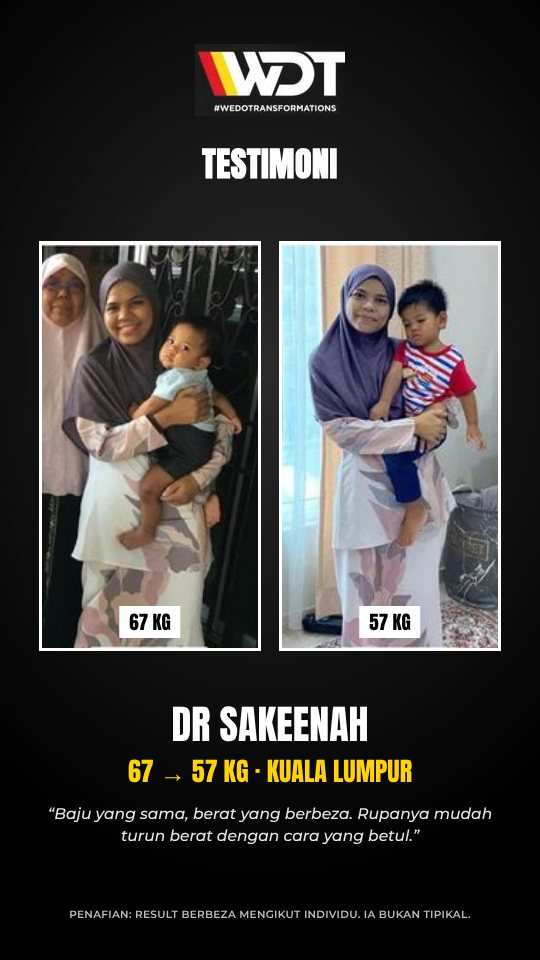
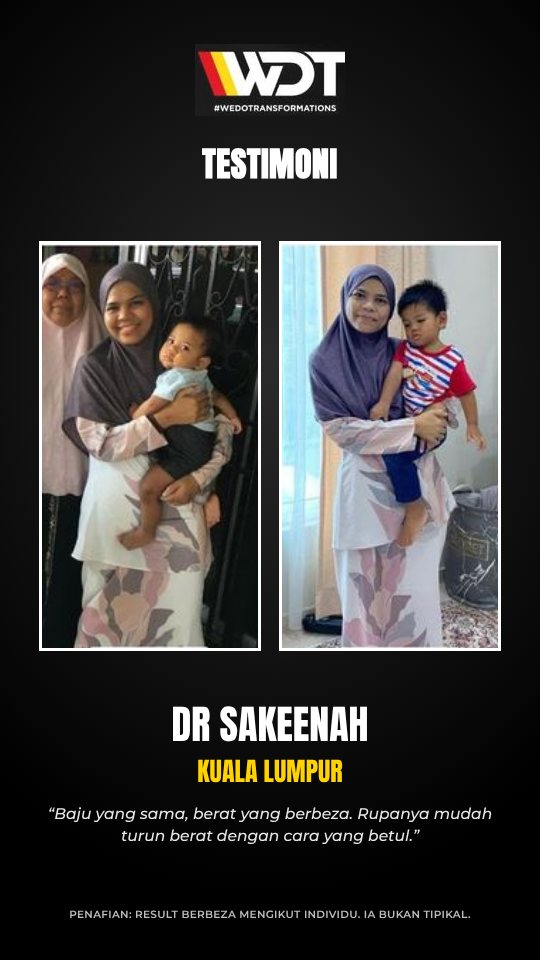
Grill decisions live: 1-hour reply, 1-month no-contract terms, quiz + calculator folded into the kit, Dr Sakeenah without kg, Pelan 14 Hari RM79 (Kimi: go)
Claude-Session: https://claude.ai/code/session_01Y5YPwBbarWogr6AVygy2j8

diff --git a/index.html b/index.html
@@ -107,6 +107,8 @@
   .kit-note{margin-top:14px;font-weight:700;font-size:15px}
   .kit-note a{color:var(--ink)}
   #hari7[hidden]{display:none}
+  .fold:not(.open){display:none}
+  .oterms{font-size:13px;line-height:1.45;margin:6px 0 0;opacity:.85}
   #hari7,#kalori{scroll-margin-top:60px}
   #zara,#kit,#pilihan{scroll-margin-top:72px}
   .h7-out{background:var(--black);color:#fff;border-radius:10px;padding:14px 16px;font-weight:600}
@@ -549,20 +551,8 @@
     <div class="container"><div class="hero-ctas"><a class="big assess" target="_blank" rel="noopener"><span data-t="assessBtn"></span></a></div></div>
   </section>
 
-  <!-- QUIZ INTRO: pin. Three facts build up, then the quiz card -->
-  <section class="sx sx-qintro" data-sc-act="pin" data-sc-span="1.5">
-    <div data-sc-stage>
-      <div class="sx-plane sx-qbars" aria-hidden="true"><i></i><i></i></div>
-      <div class="sx-c">
-        <p class="sx-big" data-sc-cue="0 1 0 0" data-t="sxQ1"></p>
-        <p class="sx-big sx-big--y" data-sc-cue="0.22 1 0.15 0" data-t="sxQ2"></p>
-        <p class="sx-line" data-sc-cue="0.44 1 0.15 0" data-t="sxQ3"></p>
-      </div>
-    </div>
-  </section>
-
   <!-- QUIZ -->
-  <section class="quiz-zone" id="quiz-zone" data-sc-act="flow">
+  <section class="quiz-zone fold" id="quiz-zone" data-sc-act="flow">
     <svg class="sx-plane sx-qmark" viewBox="0 0 60 100" aria-hidden="true" data-sc-parallax="-2.4"><text x="2" y="92">?</text></svg>
     <div class="container">
       <div class="wrap">
@@ -638,7 +628,7 @@
   </section>
 
   <!-- MEAL CALCULATOR: daily calorie range, protein and the free 8-page meal plan PDF (Kit Mula 7 Hari) -->
-  <section class="block" id="kalori" data-sc-act="flow">
+  <section class="block fold" id="kalori" data-sc-act="flow">
     <div class="container" data-sc-in data-sc-stagger="90">
       <div class="eyebrow" data-t="calEyebrow"></div>
       <h2 class="title display" data-t="calH"></h2>
@@ -683,6 +673,7 @@
         <p class="sx-big"><span>RM</span>259</p>
         <p class="sx-line" data-sc-cue="0.28 1 0.15 0" data-t="sxP2"></p>
         <p class="sx-line" data-sc-cue="0.46 1 0.15 0" style="font-weight:500;color:#C9C6C0" data-t="sxP3"></p>
+        <p class="sx-line" data-sc-cue="0.6 1 0.15 0" style="font-weight:600;color:#FFD200;font-size:clamp(15px,2.2vw,20px)" data-t="sxP4"></p>
       </div>
     </div>
   </section>
@@ -701,6 +692,7 @@
           <ul class="checks" data-t="o1List"></ul>
           <div class="olabel" data-t="investLabel"></div>
           <div class="oprice" data-t="o1Price"></div>
+          <p class="oterms" data-t="terms"></p>
           <a class="btn assess" target="_blank" rel="noopener" data-t="o1Btn"></a>
         </article>
         <article class="offer ladies" id="ladies">
@@ -813,7 +805,7 @@ const SRC = ((new URLSearchParams(location.search).get("src") || "").toLowerCase
 const WDT_RESULTS = [[9,"Mihalcea Cornelia"],[10,"Rachel Romero"],[16,"Everline Hoffmann"],[2,"Hernan Brito"]];
 
 const TESTIMONIALS = [
-  { id:"sakeenah", name:"Dr Sakeenah, Kuala Lumpur", result:"67 → 57 kg", photo:"img/t-sakeenah.jpg",
+  { id:"sakeenah", name:"Dr Sakeenah, Kuala Lumpur", result:"", photo:"img/t-sakeenah.jpg",
     quote:{ms:"Baju yang sama, berat yang berbeza. Rupanya mudah turun berat dengan cara yang betul.",en:"Same outfit, different weight. It turns out losing weight is easy when you do it the right way."} },
   { id:"eka", name:"Eka, Johor Bahru", result:"75 → 54 kg", photo:"img/t-eka.jpg",
     quote:{ms:"Saya turun 21 kg sambil makan nasi, brownies dan makan sedap.",en:"I lost 21 kg while still eating rice, brownies and good food."} },
@@ -909,7 +901,7 @@ const TXT = {
     investShort:"Programs start from RM259 a month, supplements included. Your coach will help you pick an option that fits your budget.",
     heroBtn:"Start the free quiz →",
     priceLine:"Programs start from RM259 a month, supplements included.",
-    assessNote:"Fill in a free form on the WeDoTransformations website (our team), then Coach Kimi, or Coach Zara for women, contacts you personally to explain your result. No pressure.",
+    assessNote:"Fill in a free form on the WeDoTransformations website (our team), then Coach Kimi, or Coach Zara for women, contacts you within 1 hour (8am to 10pm) to explain your result. No pressure.",
     assessBtn:"Free Online Body Assessment →", heroZara:"Prefer a female coach? Meet Coach Zara ↓", heroQuizLink:"or try the free 7-Day Starter Kit (quiz + meal plan) ↓",
     waShort:"💬 WhatsApp us",
     stat1:"realistic first goal", stat2:"free quiz", stat3:"coaches, male and female",
@@ -939,20 +931,20 @@ const TXT = {
     sx3:"But I'd become skinny fat: thin on the outside, low on muscle, still carrying fat. Dieting harder wasn't the answer.", sx4:"I ate enough protein and lifted weights. Now I'm 70 kg at 19% body fat.",
     sxProofP:"The first 6 results are from Malaysia. The last 4 are 21-Day Challenge results from WeDoTransformations coaches overseas.",
     sxQ1:"10 questions.", sxQ2:"2 minutes.", sxQ3:"Find out what's holding your results back.",
-    sxP1:"Programs start from", sxP2:"a month, supplements included.", sxP3:"Your coach will help you pick an option that fits your budget.",
+    sxP1:"Programs start from", sxP2:"a month, supplements included.", sxP3:"Your coach will help you pick an option that fits your budget.", sxP4:"One payment for 1 month. No contract, no auto-renew. Rejoin later for 25-50% off (T&amp;C apply).", terms:"One payment for 1 month. No contract, no auto-renew. Rejoin later for 25-50% off (T&amp;C apply).",
     testiEyebrow:"Real results",
     testiH:"Our team's clients",
     testiNote:"Results from clients of our coaching team. Results are not typical and vary from person to person.",
     webFoot:"Free online body assessment", incomeFoot:"Side income opportunity",
     faqH:"Questions people ask",
     faq:[
-      ["What is the free online body assessment?","You fill in a form online on the WeDoTransformations page (it opens in a new tab). Then Coach Kimi, or Coach Zara for women, contacts you personally to explain where your body is now and what to fix first. It's free, and there's no pressure to join. Programs start from RM259 a month, supplements included."],
+      ["What is the free online body assessment?","You fill in a form online on the WeDoTransformations page (it opens in a new tab). Then Coach Kimi, or Coach Zara for women, contacts you within 1 hour (8am to 10pm) to explain where your body is now and what to fix first. It's free, and there's no pressure to join. Programs start from RM259 a month, supplements included."],
       ["Why start with 3 to 5 kg?","Because it's realistic. A small first goal is easier to reach while working full time, and once you see it happen it's much easier to keep going."],
       ["How long does it take to lose 3 to 5 kg?","It depends on your starting point and your routine. A healthy pace is usually around 0.5 to 1 kg a week. We'll give you an honest estimate on the call. Results vary."],
       ["I'm really busy. Do I need the gym?","No. The workouts are about 20 minutes and can be done at home."],
       ["Do I have to stop eating rice or eating out?","No. The plans are built around normal Malaysian food and eating out. You'll learn what to pick, not what to give up forever."],
       ["Can I have a female coach?","Yes. Coach Zara coaches women. Pick \"Female coach\" on your result page."],
-      ["How much does coaching cost?","Packages start from RM259 for one month. That includes supplements, 1-to-1 coaching, group coaching, accountability (a coach who keeps you on track), and a meal plan and workout plan built around your lifestyle. There are longer, fuller packages too. On WhatsApp, your coach will help you pick the one that fits your goal and budget."],
+      ["How much does coaching cost?","Packages start from RM259 for one month. That includes supplements, 1-to-1 coaching, group coaching, accountability (a coach who keeps you on track), and a meal plan and workout plan built around your lifestyle. It's one payment for one month: no contract, no auto-renew, no membership. If you rejoin later you get 25-50% off (T&C apply). There are longer, fuller packages too. On WhatsApp, your coach will help you pick the one that fits your goal and budget."],
       ["I want to gain weight. Can you help?","Yes. Take the <a href='#quiz-zone'>2-minute quiz</a> and pick “Gain weight and look fuller” in question 1 to see what's stopping your weight from going up. Or in the <a href='#kalori'>calculator</a>, pick “Gain weight” for a free meal plan to gain weight without gaining excess fat (1,500-3,000 kcal). Our weight gain coaching uses normal food and strength training. Programs start from RM259 a month, supplements included. For ages 18 and up. Losing weight without trying? See a doctor first."],
       ["Are supplements part of the program?","Yes. Every online coaching package includes supplements at no extra cost. The RM259 package includes a nutrition shake, and bigger packages add more products. Your plan is still built on normal Malaysian food. Pregnant, breastfeeding, on medication or have a health condition? Tell your coach and check with your doctor first. Want to know what's in each package? Ask a coach on WhatsApp."]
     ],
@@ -1094,7 +1086,7 @@ const TXT = {
     investShort:"Program bermula dari RM259 sebulan, termasuk supplement. Coach akan bantu pilih pakej ikut bajet anda.",
     heroBtn:"Mula kuiz percuma →",
     priceLine:"Program bermula dari RM259 sebulan, termasuk supplement.",
-    assessNote:"Isi borang percuma di website WeDoTransformations (team kami), lepas tu Coach Kimi, atau Coach Zara untuk wanita, akan hubungi anda untuk terangkan result. Tiada paksaan.",
+    assessNote:"Isi borang percuma di website WeDoTransformations (team kami), lepas tu Coach Kimi, atau Coach Zara untuk wanita, akan hubungi anda dalam masa 1 jam (8 pagi hingga 10 malam) untuk terangkan result. Tiada paksaan.",
     assessBtn:"Online Body Assessment PERCUMA →", heroZara:"Lebih selesa dengan coach perempuan? Kenali Coach Zara ↓", heroQuizLink:"atau cuba Kit Mula 7 Hari percuma (kuiz + meal plan) ↓",
     waShort:"💬 WhatsApp kami",
     stat1:"matlamat pertama yang realistik", stat2:"kuiz percuma", stat3:"coach, lelaki dan perempuan",
@@ -1124,20 +1116,20 @@ const TXT = {
     sx3:"Tapi saya jadi skinny fat: nampak kurus, tapi otot sikit dan lemak masih tinggi. Diet lebih ketat bukan jawapannya.", sx4:"Saya makan protein cukup dan angkat beban. Sekarang 70 kg, lemak badan (body fat) 19%.",
     sxProofP:"6 result pertama dari Malaysia. 4 terakhir ialah result Cabaran 21 Hari dari coach WeDoTransformations di luar negara.",
     sxQ1:"10 soalan.", sxQ2:"2 minit.", sxQ3:"Tahu apa yang menghalang result anda.",
-    sxP1:"Program bermula dari", sxP2:"sebulan, termasuk supplement.", sxP3:"Coach akan bantu pilih pakej ikut bajet anda.",
+    sxP1:"Program bermula dari", sxP2:"sebulan, termasuk supplement.", sxP3:"Coach akan bantu pilih pakej ikut bajet anda.", sxP4:"Bayar sekali untuk 1 bulan. Tiada kontrak, tiada auto-renew. Sambung semula dapat diskaun 25-50% (tertakluk syarat).", terms:"Bayar sekali untuk 1 bulan. Tiada kontrak, tiada auto-renew. Sambung semula dapat diskaun 25-50% (tertakluk syarat).",
     testiEyebrow:"Result sebenar",
     testiH:"Klien team kami",
     testiNote:"Result klien team coaching kami. Result tidak tipikal dan berbeza mengikut individu.",
     webFoot:"Online body assessment percuma", incomeFoot:"Peluang pendapatan sampingan",
     faqH:"Soalan yang selalu ditanya",
     faq:[
-      ["Apa itu online body assessment percuma?","Anda isi borang online di page WeDoTransformations (dibuka di tab baru). Lepas tu Coach Kimi, atau Coach Zara untuk wanita, akan hubungi anda untuk terangkan keadaan badan anda sekarang dan apa yang perlu dibaiki dulu. Percuma, dan tiada paksaan untuk join. Program bermula dari RM259 sebulan, termasuk supplement."],
+      ["Apa itu online body assessment percuma?","Anda isi borang online di page WeDoTransformations (dibuka di tab baru). Lepas tu Coach Kimi, atau Coach Zara untuk wanita, akan hubungi anda dalam masa 1 jam (8 pagi hingga 10 malam) untuk terangkan keadaan badan anda sekarang dan apa yang perlu dibaiki dulu. Percuma, dan tiada paksaan untuk join. Program bermula dari RM259 sebulan, termasuk supplement."],
       ["Kenapa mula dengan 3 hingga 5 kg?","Sebab ia realistik. Matlamat kecil lebih senang dicapai walaupun kerja sepenuh masa, dan bila dah nampak hasil, lebih senang nak teruskan."],
       ["Berapa lama nak turun 3 hingga 5 kg?","Bergantung pada titik mula dan rutin anda. Kadar yang sihat biasanya lebih kurang 0.5 hingga 1 kg seminggu. Kami bagi anggaran yang jujur dalam call nanti. Result berbeza mengikut individu."],
       ["Saya sangat sibuk. Kena pergi gym ke?","Tak perlu. Senaman lebih kurang 20 minit dan boleh buat di rumah."],
       ["Kena berhenti makan nasi atau makan di luar ke?","Tak perlu. Pelan dibina ikut makanan Malaysia biasa dan makan di luar. Anda belajar apa nak pilih, bukan apa nak tinggal selama-lamanya."],
       ["Boleh dapat coach perempuan?","Boleh. Coach Zara ialah coach wanita. Pilih \"Coach perempuan\" di halaman result."],
-      ["Berapa kos coaching?","Pakej bermula dari RM259 untuk sebulan. Termasuk supplement, coaching 1-1, coaching berkumpulan, accountability (coach pantau progress anda), dan meal plan serta workout plan ikut gaya hidup anda. Ada juga pakej yang lebih panjang dan lebih lengkap. Di WhatsApp, coach akan bantu pilih pakej yang sesuai dengan matlamat dan bajet anda."],
+      ["Berapa kos coaching?","Pakej bermula dari RM259 untuk sebulan. Termasuk supplement, coaching 1-1, coaching berkumpulan, accountability (coach pantau progress anda), dan meal plan serta workout plan ikut gaya hidup anda. Bayar sekali untuk sebulan: tiada kontrak, tiada auto-renew, tiada keahlian. Kalau sambung semula nanti, dapat diskaun 25-50% (tertakluk syarat). Ada juga pakej yang lebih panjang dan lebih lengkap. Di WhatsApp, coach akan bantu pilih pakej yang sesuai dengan matlamat dan bajet anda."],
       ["Saya nak naik berat. Boleh tolong?","Boleh. Jawab <a href='#quiz-zone'>kuiz 2 minit</a> dan pilih “Naik berat dan nampak lebih berisi” di soalan 1 untuk tahu apa yang menghalang berat anda naik. Atau dalam <a href='#kalori'>kalkulator</a>, pilih “Naik berat” untuk meal plan percuma naik berat tanpa naik lemak berlebihan (1,500-3,000 kcal). Coaching naik berat kami guna makanan biasa dan latihan kekuatan. Program bermula dari RM259 sebulan, termasuk supplement. Untuk umur 18 tahun ke atas. Berat turun tanpa sebab? Jumpa doktor dulu."],
       ["Program ni ada supplement ke?","Ada. Harga setiap pakej coaching online dah termasuk supplement, tiada caj tambahan. Pakej RM259 termasuk shake nutrisi, dan pakej lebih besar ada produk tambahan. Pelan anda tetap berasaskan makanan Malaysia biasa. Mengandung, menyusu, ambil ubat atau ada masalah kesihatan? Beritahu coach dan tanya doktor dulu. Nak tahu apa dalam setiap pakej? Tanya coach di WhatsApp."]
     ],
@@ -1326,7 +1318,7 @@ function applyLang(){
   document.querySelectorAll(".assess").forEach(a=>{ a.href = CONFIG.websiteUrl; a.onclick = ()=>{ kitMark("a"); logTap({type:"quiz", via:"Body assessment", src:SRC, go:CONFIG.websiteUrl}); }; });
   $("testimonials").hidden = !TESTIMONIALS.length;
   // posters made from this list by testimonials/build.js (rerun it after editing TESTIMONIALS)
-  $("tgrid").innerHTML = TESTIMONIALS.map(t=>`<div class="tcard poster"><img src="img/t/${t.id}-${LANG}.jpg" alt="${typeof t.name==="string"?t.name:L(t.name)}: ${t.result}${t.quote?". "+L(t.quote):""}" width="540" height="960" loading="lazy"></div>`).join("")
+  $("tgrid").innerHTML = TESTIMONIALS.map(t=>`<div class="tcard poster"><img src="img/t/${t.id}-${LANG}.jpg" alt="${typeof t.name==="string"?t.name:L(t.name)}${t.result?": "+t.result:""}${t.quote?". "+L(t.quote):""}" width="540" height="960" loading="lazy"></div>`).join("")
     + WDT_RESULTS.map(n=>`<div class="tcard poster"><img src="img/wdt/${String(n[0]).padStart(2,"0")}.jpg" alt="21-Day Challenge: ${n[1]}" width="540" height="960" loading="lazy"></div>`).join("");
   $("faq").innerHTML = T.faq.map(([q,a])=>`<details><summary>${q}</summary><p>${a}</p></details>`).join("");
   $("coachpick").innerHTML = "";
@@ -1357,8 +1349,24 @@ document.querySelectorAll(".lang button").forEach(b=>b.onclick=()=>{
   applyLang();
 });
 
+// Quiz and calculator stay folded inside the kit until tapped (Kimi 20 Nov): opening one re-measures the scroll scenes below
+function openFold(id, scroll){
+  const el = $(id); if(!el || !el.classList.contains("fold")) return;
+  const was = el.classList.contains("open");
+  if(!was){ el.classList.add("open"); try{ ScrollCraft.instances.forEach(a=>a.layout()); }catch(e){} }
+  if(scroll) el.scrollIntoView({behavior: was ? "smooth" : "instant"});
+}
+document.addEventListener("click", e=>{
+  const a = e.target.closest && e.target.closest('a[href="#quiz-zone"],a[href="#kalori"]'); if(!a) return;
+  e.preventDefault(); const id = a.getAttribute("href").slice(1);
+  openFold(id, true); try{ history.replaceState(null, "", "#" + id); }catch(err){}
+});
+function foldFromHash(){ const h = location.hash.slice(1); if(h === "quiz-zone" || h === "kalori") openFold(h, true); }
+window.addEventListener("hashchange", foldFromHash);
+
 function show(id, noScroll){
   view = id;
+  if(id !== "intro") openFold("quiz-zone");
   if(typeof calNext==="function") calNext();
   ["intro","quiz","result"].forEach(s=>$(s).classList.add("hidden"));
   const el=$(id); el.classList.remove("hidden"); el.classList.remove("fade"); void el.offsetWidth; el.classList.add("fade");
@@ -1650,7 +1658,8 @@ window.addEventListener("hashchange", h7Open);
 applyLang();
 [$("kit-first"), document.querySelector("#res-kalori a")].forEach(a=>a.addEventListener("click", ()=>$("c-goal").querySelector(`[data-v="${isGain() ? "gain" : "loss"}"]`).click()));
 $("o2-book").onclick = ()=>logTap({type:"quiz", via:"Ladies class booking", src:SRC});
-h7Open(); window.addEventListener("load", h7Open);   // again after fonts/images settle
+h7Open(); window.addEventListener("load", h7Open);
+foldFromHash(); window.addEventListener("load", foldFromHash);   // #quiz-zone / #kalori links (shares, PDFs) open the folded section   // again after fonts/images settle
 window.addEventListener("load", ()=>document.documentElement.classList.add("loaded"));
 const onScreen = {};
 const floatObs = new IntersectionObserver(es=>{ es.forEach(e=>onScreen[e.target.className]=e.isIntersecting); const h = Object.values(onScreen).some(Boolean); document.querySelectorAll(".wa-float,.as-float").forEach(x=>x.hidden=h); }, {rootMargin:"-30% 0px -30% 0px"});

diff --git a/pelan14/index.html b/pelan14/index.html
@@ -222,7 +222,7 @@
 const P = window.PLAN;
 const COACH_WA = "60127040268";   // Coach Kimi, same as CONFIG in ../index.html
 // access codes per intake: fnv(code upper-case) -> start date (null = starts today, demo)
-// shortcut: codes live in public code, fine for a RM49 plan; move to a server check if codes leak a lot.
+// shortcut: codes live in public code, fine for a RM79 plan; move to a server check if codes leak a lot.
 const INTAKES = { "5594f550":"2026-12-07", "1dd6369":null };
 
 const T = {
@@ -287,11 +287,11 @@ ms:{
   sessT:"Sesi {s}", stepsT:"Langkah harian", stepsP:"Minggu 1: {a} langkah. Minggu 2: {b} langkah.", videoNote:"Video ialah demo dalam Bahasa Inggeris dari hospital dan fisioterapi. Tengok untuk teknik.",
   progT:"Progress", progP:"Ukur pagi, lepas tandas, sebelum makan. Disimpan dalam telefon ini sahaja.",
   pDay:"Hari", pKg:"Berat (kg)", pWaist:"Pinggang (cm)", pChange:"Perubahan", pSave:"Simpan",
-  offerT:"Habis 14 hari? Ini untuk you", offerP:"Sertai program penuh sebelum {d}: RM49 yang you dah bayar ditolak. Contoh: pakej RM259 jadi RM210.",
+  offerT:"Habis 14 hari? Ini untuk you", offerP:"Sertai program penuh sebelum {d}: RM79 yang you dah bayar ditolak. Contoh: pakej RM259 jadi RM180.",
   offerInc:"Program penuh: meal review oleh coach, workout dalam app, coaching 1-ke-1 dan group, check-in mingguan, supplement termasuk.",
   offerBtn:"WhatsApp Coach Kimi",
   waStart:"Hi Coach Kimi, saya {name}. Saya dah jana Pelan 14 Hari.\nMatlamat: {goal}\n{age} thn, {cm} cm, {kg} kg{waist}\nSasaran: {kcal} kcal, {prot} g protein\nLink pelan saya: {url}",
-  waEnd:"Hi Coach Kimi, saya {name}, dah habis Pelan 14 Hari.\n{prog}\nSaya nak tahu pasal program penuh (RM49 ditolak).",
+  waEnd:"Hi Coach Kimi, saya {name}, dah habis Pelan 14 Hari.\n{prog}\nSaya nak tahu pasal program penuh (RM79 ditolak).",
   pro:"Program penuh bermula dari RM259 sebulan, termasuk supplement.",
   disc1:"Semua kalori, protein dan harga ialah anggaran. Harga makanan: anggaran Lembah Klang. Bukan nasihat perubatan.",
   disc2:"Result berbeza mengikut individu. Untuk 18 tahun ke atas.",
@@ -357,11 +357,11 @@ en:{
   sessT:"Session {s}", stepsT:"Daily steps", stepsP:"Week 1: {a} steps. Week 2: {b} steps.", videoNote:"Videos are English demos from hospitals and physios. Watch them for technique.",
   progT:"Progress", progP:"Measure in the morning, after the toilet, before eating. Saved on this phone only.",
   pDay:"Day", pKg:"Weight (kg)", pWaist:"Waist (cm)", pChange:"Change", pSave:"Save",
-  offerT:"Finished 14 days? This is for you", offerP:"Join the full program before {d}: the RM49 you paid comes off. Example: the RM259 package becomes RM210.",
+  offerT:"Finished 14 days? This is for you", offerP:"Join the full program before {d}: the RM79 you paid comes off. Example: the RM259 package becomes RM180.",
   offerInc:"Full program: meal reviews by a coach, workouts in the app, 1-to-1 and group coaching, weekly check-ins, supplement included.",
   offerBtn:"WhatsApp Coach Kimi",
   waStart:"Hi Coach Kimi, I'm {name}. I've made my 14-Day Plan.\nGoal: {goal}\n{age} yrs, {cm} cm, {kg} kg{waist}\nTarget: {kcal} kcal, {prot} g protein\nMy plan link: {url}",
-  waEnd:"Hi Coach Kimi, I'm {name}, I've finished the 14-Day Plan.\n{prog}\nI'd like to know about the full program (RM49 off).",
+  waEnd:"Hi Coach Kimi, I'm {name}, I've finished the 14-Day Plan.\n{prog}\nI'd like to know about the full program (RM79 off).",
   pro:"The full program starts from RM259 a month, supplement included.",
   disc1:"All calories, protein and prices are estimates. Food prices: rough Klang Valley estimates. Not medical advice.",
   disc2:"Results vary from person to person. For ages 18 and over.",

diff --git a/testimonials/build.js b/testimonials/build.js
@@ -31,7 +31,7 @@ function page(t, l) {
   const src = new String(b64(t.photo)); src.natW = t.natW;
   const crops = CROPS[t.id]; assert(crops, 'no crop for ' + t.id);
   const [name, place] = L(t.name, l).split(', ');
-  const kg = t.result.match(/[\d.]+/g);
+  const kg = t.result.match(/[\d.]+/g) || [];
   const lab = i => crops.length === 2 && kg.length === 2 ? `${kg[i]} KG${t.months ? ' · ' + L(t.months, l).split(' → ')[i].toUpperCase() : ''}` : '';
   const photos = crops.length === 2 ? crops.map((c, i) => panel(src, c, 222, 410, lab(i))).join('')
     : panel(src, crops[0], crops[0][2]/crops[0][3] > 0.9 ? 470 : 300, crops[0][2]/crops[0][3] > 0.9 ? 470 : 470, '');
@@ -52,7 +52,7 @@ q{display:block;font-style:italic;font-weight:500;font-size:15.5px;line-height:1
 </style></head><body>
 <div class="logo"></div><h1>${TXT[l].head}</h1>
 <div class="ph">${photos}</div>
-<div class="nm">${name}</div><div class="rs">${t.result.replace('kg','KG')}${place ? ' · ' + place : ''}</div>
+<div class="nm">${name}</div><div class="rs">${[t.result.replace('kg','KG'), place].filter(Boolean).join(' · ')}</div>
 ${t.quote ? `<q>${L(t.quote, l)}</q>` : ''}
 <div class="disc">${TXT[l].disc}</div></body></html>`;
 }
@@ -60,7 +60,7 @@ function assert(c, m) { if (!c) throw new Error(m); }
 (async () => {
   const out = path.join(ROOT, 'img', 't'); fs.mkdirSync(out, { recursive: true });
   const b = await chromium.launch(), p = await b.newPage({ viewport: { width: 540, height: 960 } });
-  for (const t of TESTIMONIALS) {
+  for (const t of TESTIMONIALS.filter(t => !process.env.ONLY || process.env.ONLY.split(',').includes(t.id))) {
     t.natW = await p.evaluate(async s => { const i = new Image(); i.src = s; await i.decode(); return i.naturalWidth; }, b64(t.photo));
     for (const l of ['ms', 'en']) {
       await p.setContent(page(t, l), { waitUntil: 'networkidle' });
